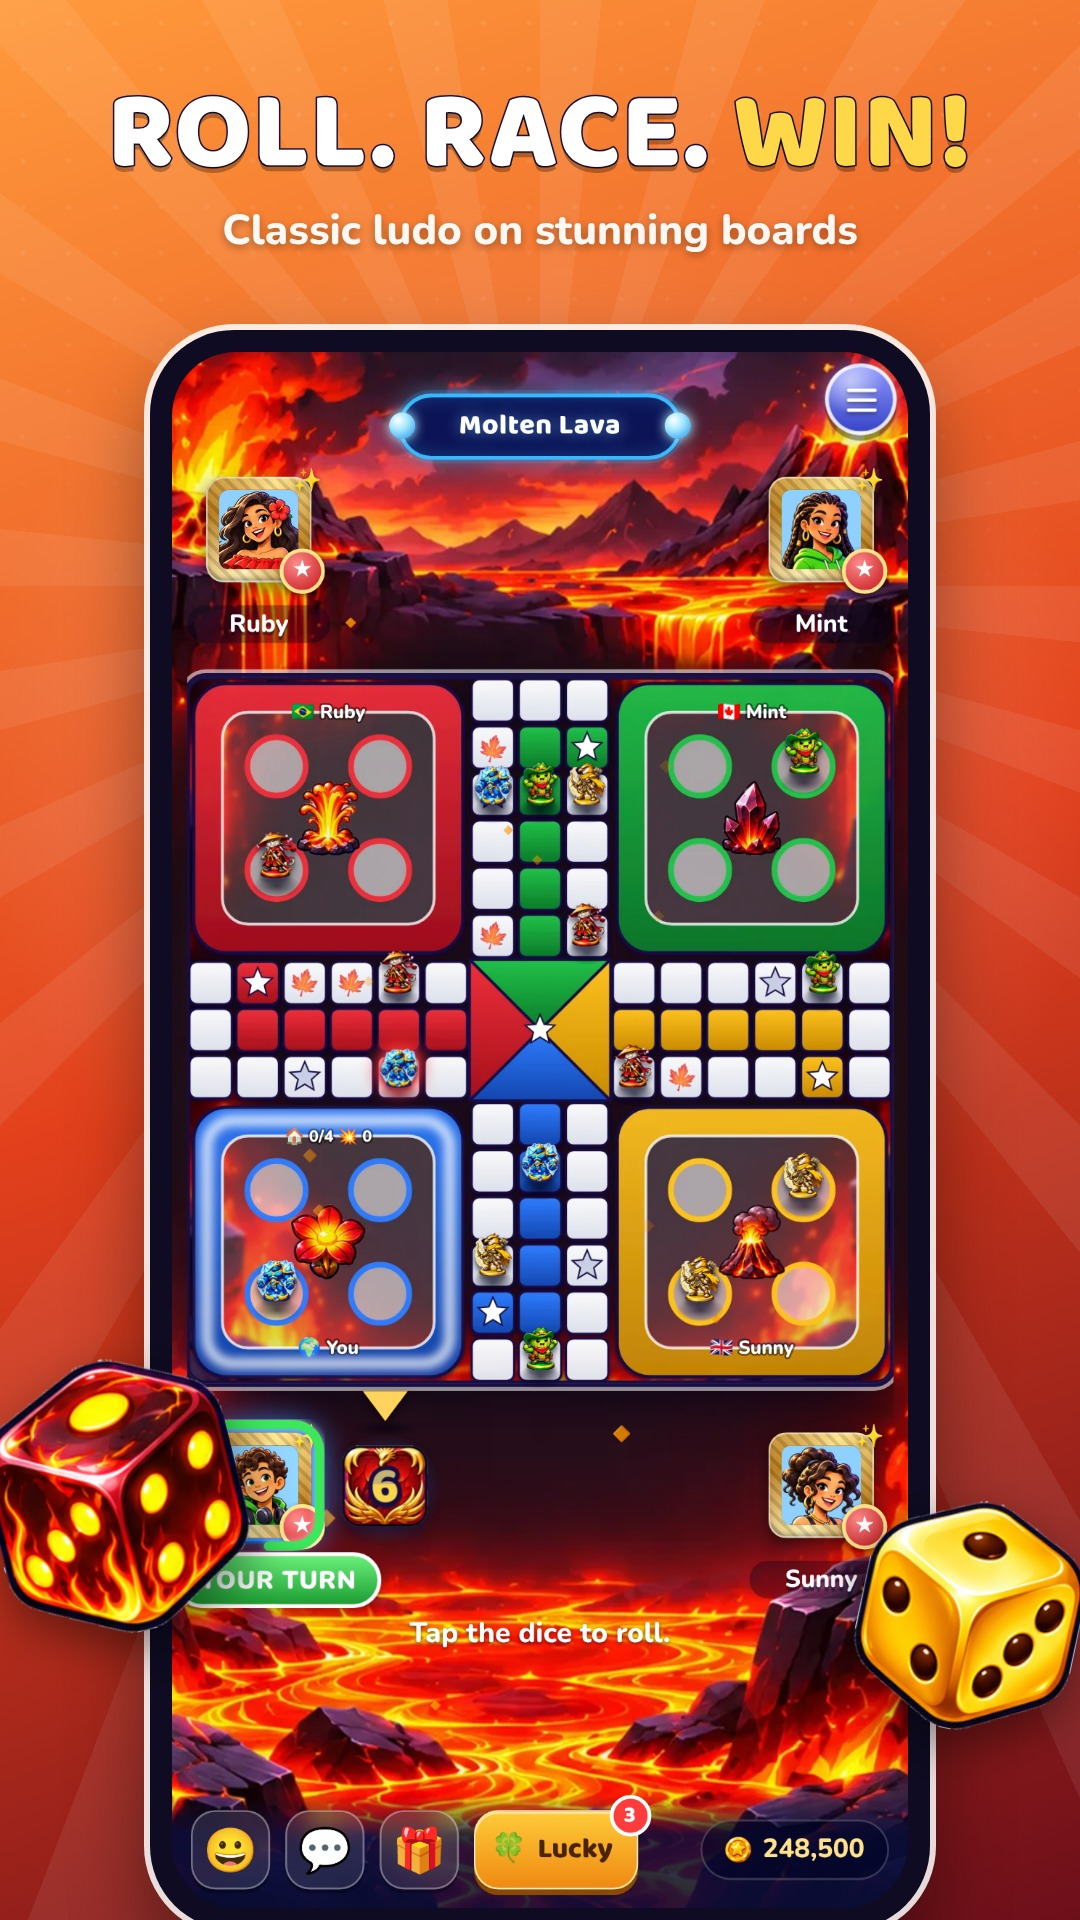
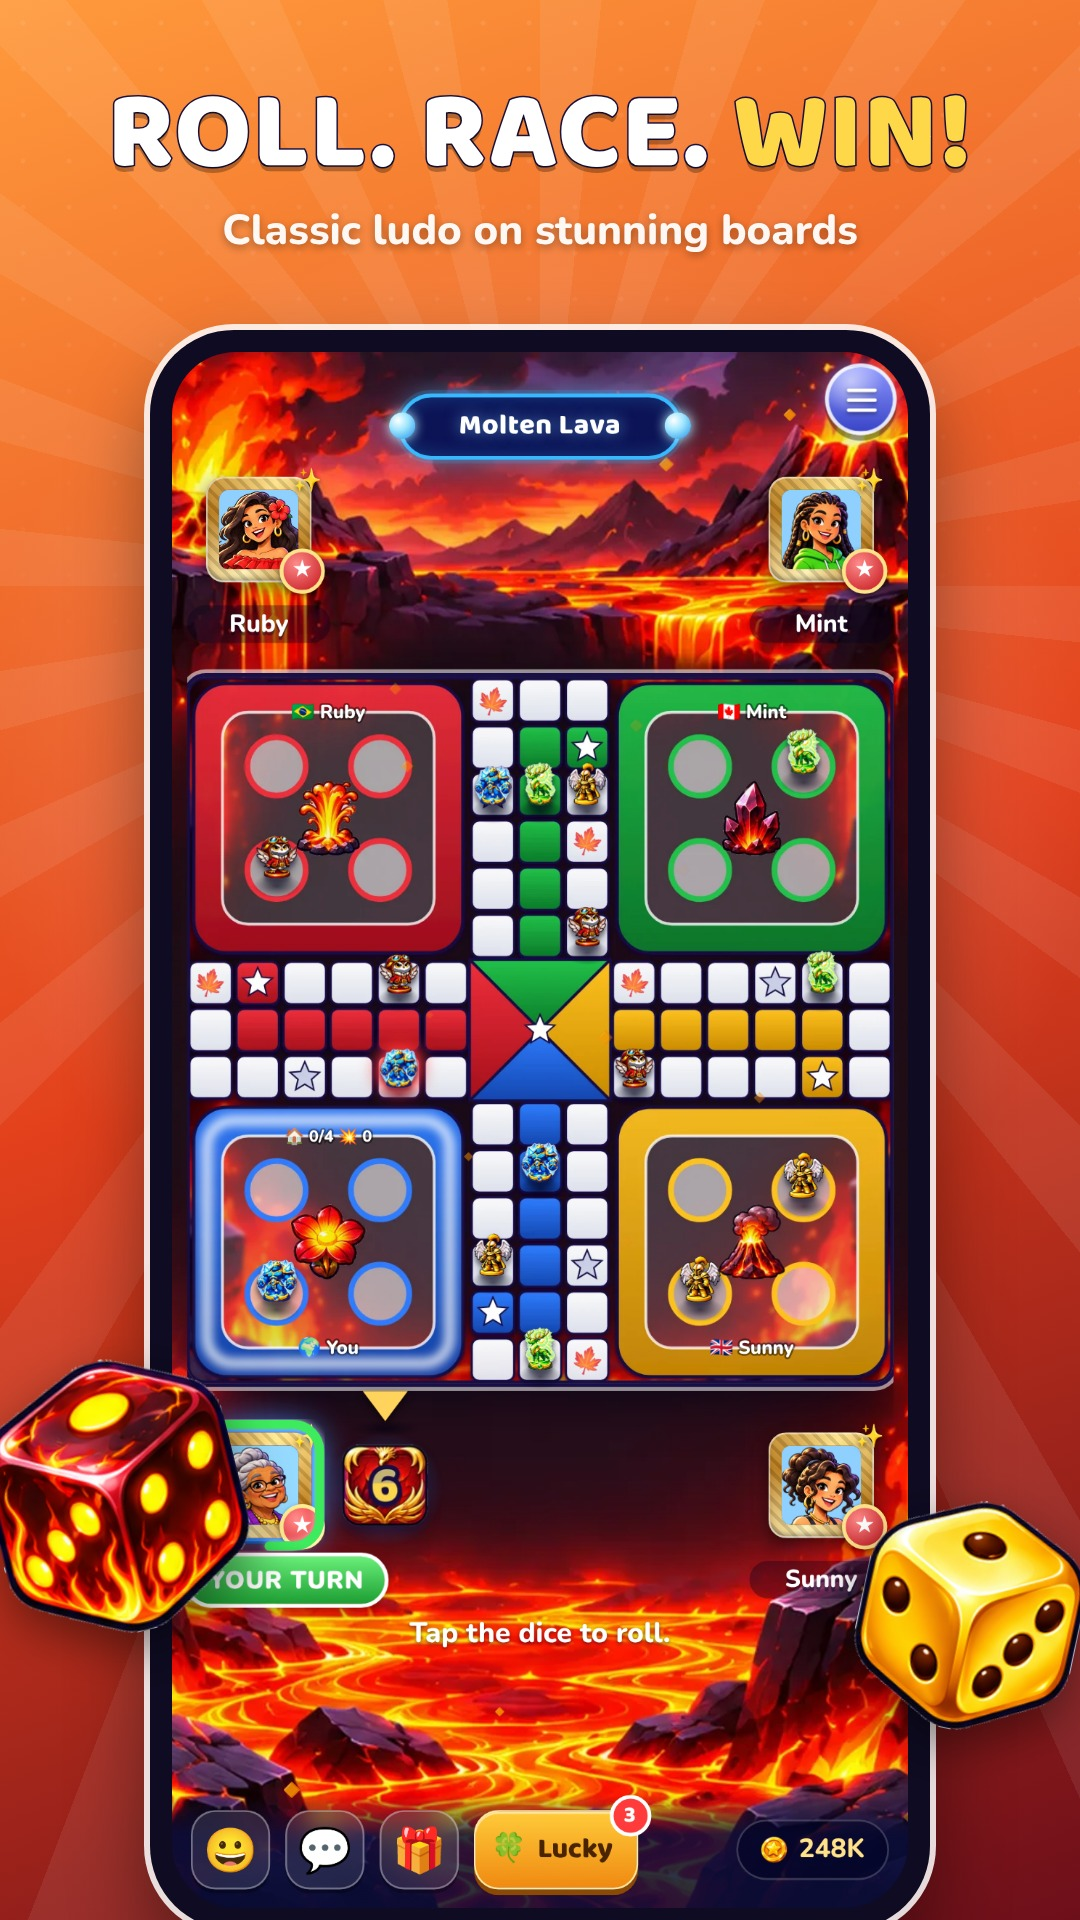
Ludora 1.9: fix cut-off window titles and close buttons, small-phone and tablet layout fixes, store screenshots retaken
Claude-Session: https://claude.ai/code/session_0196TF67ACf4DrGk3bwDQLY6

diff --git a/ludora-dice/tools/upgrade/audit.js b/ludora-dice/tools/upgrade/audit.js
@@ -1,0 +1,73 @@
+// open every window/screen and flag clipped or off-screen elements. node audit.js [w] [h] [tag]
+const {chromium}=require('playwright');const fs=require('fs');
+const W=+process.argv[2]||390,H=+process.argv[3]||844,TAG=process.argv[4]||'p';
+const OUT='audit_'+TAG;fs.rmSync(OUT,{recursive:true,force:true});fs.mkdirSync(OUT);
+const CHECK=`(root)=>{
+ const vw=innerWidth,vh=innerHeight,bad=[];
+ const els=[...root.querySelectorAll('*')].filter(e=>{const r=e.getBoundingClientRect();if(r.width<4||r.height<4)return false;const cs=getComputedStyle(e);return cs.visibility!=='hidden'&&cs.display!=='none'&&+cs.opacity>0.05;});
+ const name=e=>(e.id?'#'+e.id:e.tagName.toLowerCase()+(e.className&&typeof e.className==='string'?'.'+e.className.trim().split(/\\s+/).slice(0,2).join('.'):''))+' "'+(e.textContent||'').trim().slice(0,24)+'"';
+ for(const e of els){
+  const r=e.getBoundingClientRect();
+  if(r.right>vw+2||r.left<-2){ if(!e.closest('.h7car,.su7mrow,.su7mw,.strip,[class*=car],[class*=rail],.r9,.tb9')) bad.push('OFFSCREEN-X '+name(e)+' '+Math.round(r.left)+'..'+Math.round(r.right));}
+  let a=e.parentElement;
+  while(a&&a!==document.body){
+   const cs=getComputedStyle(a);
+   if(cs.overflowX!=='visible'||cs.overflowY!=='visible'){
+    const q=a.getBoundingClientRect();
+    const scrollY=(cs.overflowY==='auto'||cs.overflowY==='scroll')&&a.scrollHeight>a.clientHeight+2;
+    const scrollX=(cs.overflowX==='auto'||cs.overflowX==='scroll')&&a.scrollWidth>a.clientWidth+2;
+    const cutX=(r.left<q.left-2||r.right>q.right+2)&&!scrollX;
+    const cutY=(r.top<q.top-2||r.bottom>q.bottom+2)&&!scrollY;
+    if((cutX||cutY)&&r.width*r.height>200){
+      // ignore decorative / intentionally cropped art
+      if(!e.closest('.pv,.pv9,.spr9,.confetti,.rays,[class*=bg],[class*=glow],[class*=art],img')&&e.tagName!=='IMG'&&!/^(I|SVG|PATH|CIRCLE|RECT|G|POLYGON|ELLIPSE|LINE|SPAN)$/i.test(e.tagName))
+        bad.push('CLIPPED '+(cutX?'X ':'')+(cutY?'Y ':'')+name(e)+' by '+name(a));
+    }
+    break;
+   }
+   a=a.parentElement;
+  }
+  if((e.scrollWidth>e.clientWidth+2)&&getComputedStyle(e).overflowX==='hidden'&&e.children.length===0&&getComputedStyle(e).textOverflow!=='ellipsis')bad.push('TEXT-CUT '+name(e));
+ }
+ return [...new Set(bad)].slice(0,40);
+}`;
+(async()=>{const b=await chromium.launch();const p=await b.newPage({viewport:{width:W,height:H},isMobile:true,hasTouch:true});
+const errs=[];p.on('pageerror',e=>errs.push(e.message));
+await p.goto('http://localhost:8790/dbg.html');await p.waitForTimeout(5000);
+for(let i=0;i<4;i++){await p.mouse.click(W/2,H*0.53);await p.waitForTimeout(700);await p.evaluate(()=>{document.querySelectorAll('.overlay:not([hidden]):not(#ov-welcome) .btn').forEach(x=>x.click());});await p.waitForTimeout(300);}
+await p.evaluate(()=>{document.querySelectorAll('[class*=tour]').forEach(e=>e.remove());__ev("set.tour8=1;set.coins=2500000;set.gems=5000;set.lk=2;addChest('gold');addChest('silver');save();refreshStars();")});
+const report={};
+async function snap(n){await p.waitForTimeout(900);await p.screenshot({path:OUT+'/'+n+'.png'});
+ const r=await p.evaluate(`(${CHECK})(document.body)`);report[n]=r;}
+async function closeAll(){await p.evaluate(()=>{document.querySelectorAll('.overlay:not([hidden]):not(#ov-welcome)').forEach(o=>{const c=o.querySelector('.close,.su7back');if(c)c.click();o.hidden=true;});});await p.waitForTimeout(400);}
+await snap('00_home');
+// every clickable thing on the home screen (side buttons, banners, tab bar)
+const btns=await p.evaluate(()=>{const w=document.getElementById('ov-welcome');return [...w.querySelectorAll('button,[role=button]')].filter(x=>{const r=x.getBoundingClientRect();return r.width>10&&r.height>10&&!x.closest('.h7car')&&!/h7arr|arr/.test(x.className);}).map((x,i)=>{x.dataset.aud=i;return i+':'+(x.id||x.className)+':'+(x.textContent||'').trim().slice(0,14);});});
+for(const t of btns){const i=t.split(':')[0];
+ await p.evaluate(i=>{const x=document.querySelector('[data-aud="'+i+'"]');x&&x.click();},i);
+ const any=await p.evaluate(()=>!!document.querySelector('.overlay:not([hidden]):not(#ov-welcome)'));
+ if(any)await snap('home_'+t.replace(/[^a-z0-9]+/gi,'_').slice(0,40));
+ await closeAll();}
+// store tabs
+for(const top of ['shop','special','chest']){for(const tab of (top==='shop'?['board','pawn','die','frame','emo']:['x'])){
+ await p.evaluate(([a,c])=>__ev(`storeTop='${a}';${c!=='x'?"collTab='"+c+"';":''}renderColl();openSheet('ov-coll')`),[top,tab]);await snap('store_'+top+'_'+tab);await closeAll();}}
+await p.evaluate(()=>__ev("openItem('pawn',ITEMS.pawn.filter(function(i){return i.r==='legendary'})[0])"));await snap('item_pawn');await closeAll();
+await p.evaluate(()=>__ev("openItem('board',ITEMS.board[5])"));await snap('item_board');await closeAll();
+// setups
+for(const k of ['cpu','team','pass','online']){await p.evaluate(k=>__ev("window.__ludoraV7.openSetup('"+k+"')"),k);await snap('setup_'+k);await closeAll();}
+// a game + in-game windows
+await p.evaluate(()=>__ev("window.__ludoraV7.openSetup('cpu')"));await p.waitForTimeout(500);await p.click('#su7-play');await p.waitForTimeout(3500);
+await snap('game');
+for(let i=0;i<30;i++){await p.waitForTimeout(300);if(await p.evaluate(()=>__ev("mine(cur())&&S.phase==='roll'")))break;}
+await p.evaluate(()=>__ev("openLuck()"));await snap('game_luck');await closeAll();
+const gb=await p.evaluate(()=>[...document.querySelectorAll('.gbar button, #b-settings, .topbar button')].filter(x=>x.getBoundingClientRect().width>8).map((x,i)=>{x.dataset.gb=i;return i+':'+(x.id||x.className)+':'+(x.textContent||'').trim().slice(0,10);}));
+for(const t of gb){const i=t.split(':')[0];await p.evaluate(i=>{const x=document.querySelector('[data-gb="'+i+'"]');x&&x.click();},i);
+ const any=await p.evaluate(()=>!!document.querySelector('.overlay:not([hidden]):not(#ov-welcome), .emopanel:not([hidden]), [class*=pop]:not([hidden])'));
+ if(any)await snap('game_'+t.replace(/[^a-z0-9]+/gi,'_').slice(0,40));await closeAll();}
+await p.evaluate(()=>__ev("S.phase='over';showWin(S.players.filter(function(x){return x.you;})[0])"));await snap('win');await closeAll();
+await p.evaluate(()=>__ev("S.phase='over';showWin(S.players.filter(function(x){return !x.you;})[0])"));await snap('lose');await closeAll();
+await p.evaluate(()=>__ev("leaveToMenu()"));await p.waitForTimeout(800);
+await p.evaluate(()=>__ev("window.__ludoraV7.chestWin&&window.__ludoraV7.chestWin(-1,{t:'gold',c:6000,g:10})"));await snap('chestwin');await closeAll();
+fs.writeFileSync(OUT+'/report.json',JSON.stringify(report,null,1));
+for(const k in report)if(report[k].length)console.log(k,'\n  '+report[k].join('\n  '));
+console.log('screens',Object.keys(report).length,'errors',errs);await b.close();})();

diff --git a/ludora-dice/tools/upgrade/v11.js b/ludora-dice/tools/upgrade/v11.js
@@ -118,6 +118,44 @@ setInterval(banSync,300);banSync();
   fit();addEventListener('resize',fit);
 })();
 
+
+/* ---------- polish: number commas in daily rewards, "an Iron chest", turn pill kept on screen ---------- */
+(function(){
+  function commas(root){if(!root)return;var w=document.createTreeWalker(root,NodeFilter.SHOW_TEXT),n;
+    while((n=w.nextNode())){if(/\d{4,}/.test(n.nodeValue))n.nodeValue=n.nodeValue.replace(/\b\d{4,}\b/g,function(x){return Number(x).toLocaleString('en-US');});}}
+  var rd11=renderDaily;renderDaily=function(){var r=rd11.apply(this,arguments);try{commas(document.getElementById('ov-daily'));}catch(e){}return r;};
+  var t11=toast;toast=function(m){if(typeof m==='string')m=m.replace(/\bYou won a ([AEIOU])/,'You won an $1');return t11.apply(this,[m].concat([].slice.call(arguments,1)));};
+  setInterval(function(){document.querySelectorAll('.tp8').forEach(function(p){p.style.marginLeft='0px';var r=p.getBoundingClientRect();if(!r.width)return;
+    var dx=0;if(r.left<4)dx=4-r.left;else if(r.right>innerWidth-4)dx=innerWidth-4-r.right;if(dx)p.style.marginLeft=dx+'px';});},400);
+})();
+
+
+/* ---------- short phones: shrink the board so the bottom players and dice stay above the game bar ---------- */
+(function(){
+  var busy=false;
+  function fitHeight(){
+    if(busy)return;var g=document.getElementById('gbar'),rows=document.querySelectorAll('.seatrow');
+    if(!g||!rows.length||!g.getBoundingClientRect().height)return;
+    var last=rows[rows.length-1].getBoundingClientRect(),over=Math.ceil(last.bottom+4-g.getBoundingClientRect().top);
+    if(over<=2)return;
+    busy=true;
+    try{BS=Math.max(250,Math.round(BS-over));CELL=BS/15;stage.style.setProperty('--S',BS+'px');stage.style.setProperty('--u',CELL+'px');
+      stage.style.maxWidth=BS+'px';stage.style.setProperty('margin-left','auto','important');stage.style.setProperty('margin-right','auto','important');stage.style.alignSelf='center';if(S.pawns)layout(true);}catch(e){}
+    busy=false;
+  }
+  var fs11=fitStage;fitStage=function(){stage.style.maxWidth='';stage.style.removeProperty('margin-left');stage.style.removeProperty('margin-right');stage.style.alignSelf='';var r=fs11.apply(this,arguments);setTimeout(fitHeight,30);return r;};
+  addEventListener('resize',function(){setTimeout(function(){fitStage();},60);});
+  setInterval(fitHeight,700);
+})();
+
+
+/* ---------- game bar coin counter: short form for big numbers (2.5M) so it fits small phones ---------- */
+(function(){
+  function short(n){n=+n||0;if(n>=1e6)return (Math.floor(n/1e5)/10).toString().replace(/\.0$/,'')+'M';if(n>=1e5)return Math.floor(n/1e3)+'K';return nf(n);}
+  var rs11=refreshStars;refreshStars=function(){var r=rs11.apply(this,arguments);document.querySelectorAll('#gbar .coincount').forEach(function(e){e.textContent=short(set.coins);});return r;};
+  try{refreshStars();}catch(e){}
+})();
+
 /* ---------- 5. 7-day offers (Store > Special) ---------- */
 function weekNo(){return Math.floor((Date.now()/864e5+3)/7);}
 function rnd(seed){return function(){seed=(seed*16807)%2147483647;return (seed-1)/2147483646;};}

diff --git a/ludora-dice/tools/upgrade/v11.css b/ludora-dice/tools/upgrade/v11.css
@@ -51,3 +51,17 @@ body.ban11on.deep9 .h7{padding-bottom:132px}
 .tab11 .overlay:not(#ov-welcome) > .sheet{zoom:var(--z11)}
 .tab11 #ov-setup7 .su7in{zoom:var(--z11);height:calc(100vh / var(--z11))}
 .tab11 .overlay:not(#ov-welcome) > .sheet .sb{max-height:calc((100dvh - 150px * var(--z11)) / var(--z11))}
+
+/* confetti falls behind the winner text */
+#ov-win .sheet .sb{position:relative;z-index:1}
+#ov-win .confetti{z-index:0}
+/* tablets: the game's bottom bar and menu button scale too */
+.tab11 #gbar{zoom:var(--z11);width:calc(100vw / var(--z11))}
+.tab11 #bar{zoom:var(--z11)}
+.tab11 .pillrow .pill{zoom:var(--z11)}
+/* home top row never wider than the screen on small phones */
+.b9{grid-template-columns:repeat(3,minmax(0,1fr))!important}
+.b9>.t9{min-width:0}
+/* profile flag grid fits narrow phones */
+.p7fls{grid-template-columns:repeat(8,minmax(0,1fr))!important}
+.p7fl{min-width:0;font-size:clamp(14px,5vw,20px)}

diff --git a/ludora-dice/tools/upgrade/v9.css b/ludora-dice/tools/upgrade/v9.css
@@ -133,7 +133,7 @@ img.chimg{display:block;width:100%;height:auto;max-height:100%;object-fit:contai
 #c-items{grid-template-columns:repeat(2,minmax(0,1fr))!important}
 #c-items>*{min-width:0}
 #c-items .sbar,#c-items .sbar>*{min-width:0;max-width:100%}
-.sheet{max-width:calc(100vw - 16px);overflow-x:hidden}
+.sheet{max-width:calc(100vw - 16px)}
 .sheet .sb{min-width:0;overflow-x:hidden}
 .pv9{min-width:0;max-width:100%;overflow:hidden;justify-content:center}
 .pv9c{min-width:0;flex:0 1 22%;height:auto;max-height:70%}
